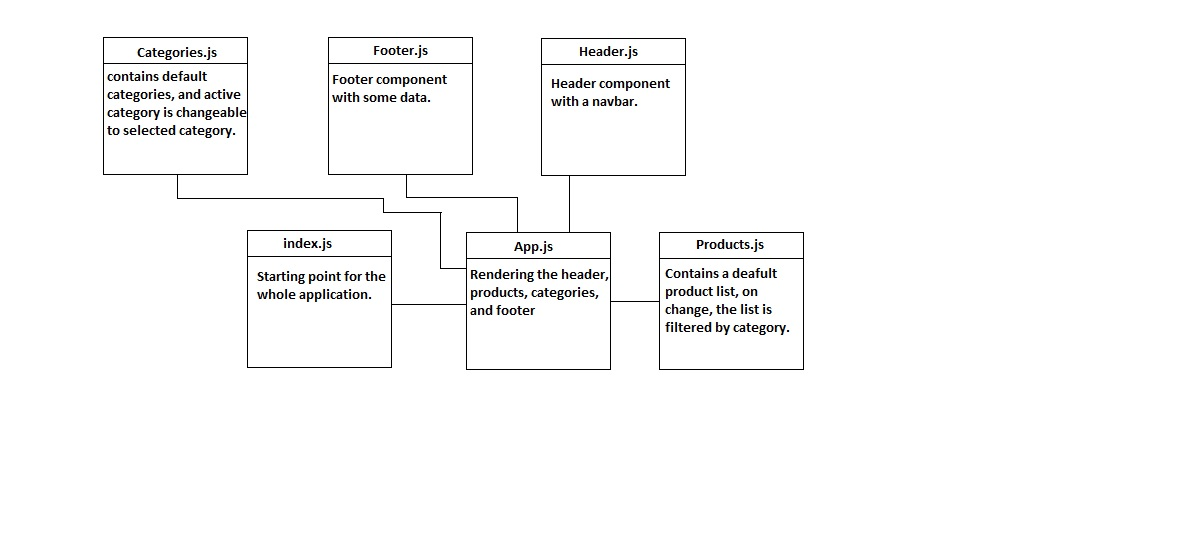
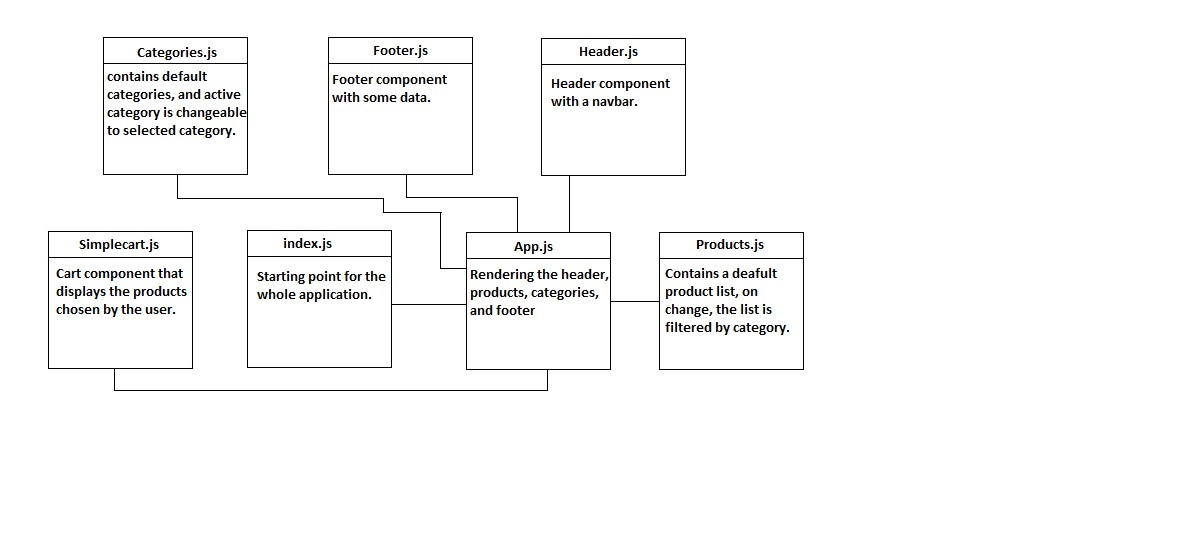
combined reducers

Changed region(s): [[0.0309, 0.4304, 0.1547, 0.5841]]

diff --git a/src/components/storefront/Simplecart.js b/src/components/storefront/Simplecart.js
@@ -1,0 +1,106 @@
+/* eslint-disable no-unused-vars */
+import { Button } from '@material-ui/core';
+import React from 'react';
+import {removeFromCart} from '../../store/cart';
+import {connect} from 'react-redux';
+import ClickAwayListener from '@material-ui/core/ClickAwayListener';
+import Grow from '@material-ui/core/Grow';
+import Paper from '@material-ui/core/Paper';
+import Popper from '@material-ui/core/Popper';
+import MenuItem from '@material-ui/core/MenuItem';
+import MenuList from '@material-ui/core/MenuList';
+import { makeStyles } from '@material-ui/core/styles';
+import HighlightOffIcon from '@material-ui/icons/HighlightOff';
+
+const useStyles = makeStyles((theme) => ({
+  root: {
+    display: 'flex',
+  },
+  paper: {
+    marginRight: theme.spacing(2),
+  },
+}));
+
+
+const Simplecart = props => {
+
+  const classes = useStyles();
+  const [open, setOpen] = React.useState(false);
+  const anchorRef = React.useRef(null);
+
+  const handleToggle = () => {
+    setOpen((prevOpen) => !prevOpen);
+  };
+
+  const handleClose = (event) => {
+    if (anchorRef.current && anchorRef.current.contains(event.target)) {
+      return;
+    }
+
+    setOpen(false);
+  };
+
+  function handleListKeyDown(event) {
+    if (event.key === 'Tab') {
+      event.preventDefault();
+      setOpen(false);
+    }
+  }
+
+  // return focus to the button when we transitioned from !open -> open
+  const prevOpen = React.useRef(open);
+  React.useEffect(() => {
+    if (prevOpen.current === true && open === false) {
+      anchorRef.current.focus();
+    }
+
+    prevOpen.current = open;
+  }, [open]);
+
+  return (
+    <div className={classes.root}>
+      <div>
+        <Button
+          ref={anchorRef}
+          aria-controls={open ? 'menu-list-grow' : undefined}
+          aria-haspopup="true"
+          onClick={handleToggle}
+        >
+          Cart: ({props.load})
+        </Button>
+        
+        <Popper open={open} anchorEl={anchorRef.current} role={undefined} transition disablePortal>
+          {({ TransitionProps, placement }) => (
+            <Grow
+              {...TransitionProps}
+              style={{ transformOrigin: placement === 'bottom' ? 'center top' : 'center bottom' }}
+            >
+              <Paper>
+                <ClickAwayListener onClickAway={handleClose}>
+                  <MenuList  autoFocusItem={open} id="menu-list-grow" onKeyDown={handleListKeyDown}>
+                    {props.content.map(product => {
+                      return (
+                        <MenuItem> {product.name} <HighlightOffIcon onClick={()=>{props.removeFromCart(product);}}></HighlightOffIcon>
+                        </MenuItem>
+                      );
+                    })}
+                    
+                  </MenuList>
+                </ClickAwayListener>
+              </Paper>
+            </Grow>
+          )}
+        </Popper>
+      </div>
+    </div>
+  );
+};
+
+const mapStateToProps = state => ({
+  load: state.cart.content.length,
+  content: state.cart.content,
+});
+
+const mapDispatchToProps = {removeFromCart};
+
+export default connect(mapStateToProps, mapDispatchToProps)(Simplecart);

diff --git a/src/components/storefront/Products.js b/src/components/storefront/Products.js
@@ -1,6 +1,7 @@
 /* eslint-disable no-unused-vars */
 import React from 'react';
 import {connect} from 'react-redux';
+import {addToCart} from '../../store/cart';
 import Button from '@material-ui/core/Button';
 import { makeStyles } from '@material-ui/core/styles';
 import Card from '@material-ui/core/Card';
@@ -9,10 +10,12 @@ import CardActions from '@material-ui/core/CardActions';
 import CardContent from '@material-ui/core/CardContent';
 import CardMedia from '@material-ui/core/CardMedia';
 import Typography from '@material-ui/core/Typography';
+import Box from '@material-ui/core/Box';
 
 const useStyles = makeStyles({
   root: {
     maxWidth: 345,
+    margin:40,
   },
 });
 
@@ -21,11 +24,11 @@ const Products = props => {
   const classes = useStyles();
 
   return (
-    <section className='product'>
-      <ul>
+    <section className='product' >
+      <Box display="flex" flexDirection="row">
         {props.products.displayed.map( product => {
           return (
-            <Card className={classes.root}>
+            <Card className={classes.root} flexDirection="row" flexWrap="wrap">
               <CardActionArea>
                 <CardMedia
                   component="img"
@@ -42,7 +45,7 @@ const Products = props => {
                 </CardContent>
               </CardActionArea>
               <CardActions>
-                <Button size="small" color="primary">
+                <Button onClick={()=>props.addToCart(product)}size="small" color="primary">
           ADD TO CART
                 </Button>
                 <Button size="small" color="primary">
@@ -52,16 +55,17 @@ const Products = props => {
             </Card>
 
           );
-          // <li key={product.name}>{product.name}</li>;
         })}
-
-      </ul>
+      </Box>
     </section>
   );
 };
 
 const mapStateToProps = state => ({
   products: state.products,
+  content: state.cart.content,
 });
+
+const mapDispatchToProps = {addToCart};
   
-export default connect(mapStateToProps)(Products);
+export default connect(mapStateToProps, mapDispatchToProps)(Products);

diff --git a/src/__tests/store.test.js b/src/__tests/store.test.js
@@ -2,13 +2,19 @@ import reducer, {setActive} from '../store/categories';
 
 it('should have initial state', () => {
   const state = reducer(undefined, {});
-  expect(state.activeCategory.name).toBe('Electronics products');
-  expect(state.activeCategory.displayName).toBe('Electronics');
+  expect(state.activeCategory.name).toBe('');
+  expect(state.activeCategory.displayName).toBe('');
 });
 
-it('should have be able to swap categories', () => {
+it('should set an active category', () => {
   const state = reducer(undefined, setActive('food'));
   expect(state.activeCategory.name).toBe('Food products');
   expect(state.activeCategory.displayName).toBe('Food');
 
+});
+
+it('should have be able to swap categories', () => {
+  const state = reducer(undefined, setActive('electronics'));
+  expect(state.activeCategory.name).toBe('Electronics products');
+  expect(state.activeCategory.displayName).toBe('Electronics');
 });

diff --git a/src/store/cart.js b/src/store/cart.js
@@ -1,0 +1,36 @@
+/* eslint-disable no-duplicate-case */
+/* eslint-disable no-case-declarations */
+'use strict';
+
+const initialState = {
+  content :[],
+};
+
+export default (state = initialState, action) => {
+  const {type, payload} = action;
+
+  switch(type){
+  case 'addToCart':
+    let update = state.content.push(payload);
+    return {...state, update};
+  case 'removeFromCart':
+    state.content.splice(state.content.indexOf(payload),1);
+    return {...state};
+  default: 
+    return state;
+  }
+};
+
+export const addToCart = product => {
+  return {
+    type: 'addToCart',
+    payload: product,
+  };
+};
+
+export const removeFromCart = product => {
+  return {
+    type: 'removeFromCart',
+    payload: product,
+  };
+};

diff --git a/src/components/Header.js b/src/components/Header.js
@@ -6,6 +6,7 @@ import Toolbar from '@material-ui/core/Toolbar';
 import Typography from '@material-ui/core/Typography';
 import Button from '@material-ui/core/Button';
 import IconButton from '@material-ui/core/IconButton';
+import Simplecart from './storefront/Simplecart';
 
 const useStyles = makeStyles((theme) => ({
   root: {
@@ -31,7 +32,7 @@ export default () => {
           <Typography variant="h6" className={classes.title}>
           Our Store
           </Typography>
-          <Button color="inherit">CART(0)</Button>
+          <Simplecart />
         </Toolbar>
       </AppBar>
     </div>

diff --git a/src/components/storefront/Categories.js b/src/components/storefront/Categories.js
@@ -49,6 +49,7 @@ const useStyles = makeStyles((theme) => ({
     flexGrow: 1,
     backgroundColor: theme.palette.background.paper,
   },
+
 }));
 
 
@@ -63,6 +64,8 @@ const Categories = props => {
 
   return (
     <div className={classes.root}>
+      <h2>{props.categories.activeCategory.displayName}</h2>
+
       <h2>Browse Our Categories</h2>
       <AppBar position="static" color="white">
         <Tabs value={value} onChange={handleChange} aria-label="simple tabs example">
@@ -75,6 +78,7 @@ const Categories = props => {
       </AppBar>
      
     </div>
+    
   );
   
 };

diff --git a/src/store/index.js b/src/store/index.js
@@ -2,8 +2,9 @@ import {createStore, combineReducers} from 'redux';
 import {composeWithDevTools} from 'redux-devtools-extension';
 import categories from './categories';
 import products from './products';
+import cart from './cart';
 
-let reducers = combineReducers({categories, products});
+let reducers = combineReducers({categories, products, cart});
 
 const store = () => {
   return createStore(reducers, composeWithDevTools());

diff --git a/src/store/products.js b/src/store/products.js
@@ -21,7 +21,7 @@ const initialState = {
     },
     {
       name: 'Carrots',
-      description: 'To look orangebe healthy',
+      description: 'To be healthy',
       price: '$1.99',
       inventory: 100,
       image:'https://www.jessicagavin.com/wp-content/uploads/2019/02/carrots-7-1200.jpg',

diff --git a/src/store/categories.js b/src/store/categories.js
@@ -15,9 +15,9 @@ const initialState = {
     },
   },
   activeCategory: {
-    name: 'Electronics products',
-    displayName: 'Electronics',
-    description: 'Every device you can use',
+    name: '',
+    displayName: '',
+    description: '',
   },
 };
 

diff --git a/public/index.html b/public/index.html
@@ -5,7 +5,7 @@
   <meta charset="utf-8" />
   <meta name="viewport" content="width=device-width, initial-scale=1" />
   <meta name="theme-color" content="#000000" />
-
+<link rel="stylesheet" href="../src/App.scss">
   <title>Store</title>
 </head>
 

diff --git a/src/App.scss b/src/App.scss
@@ -1,0 +1,9 @@
+body{
+    background-color: aqua;
+}
+
+.products{
+    display: flex;
+    flex-direction: row;
+    flex-wrap: wrap;
+}
